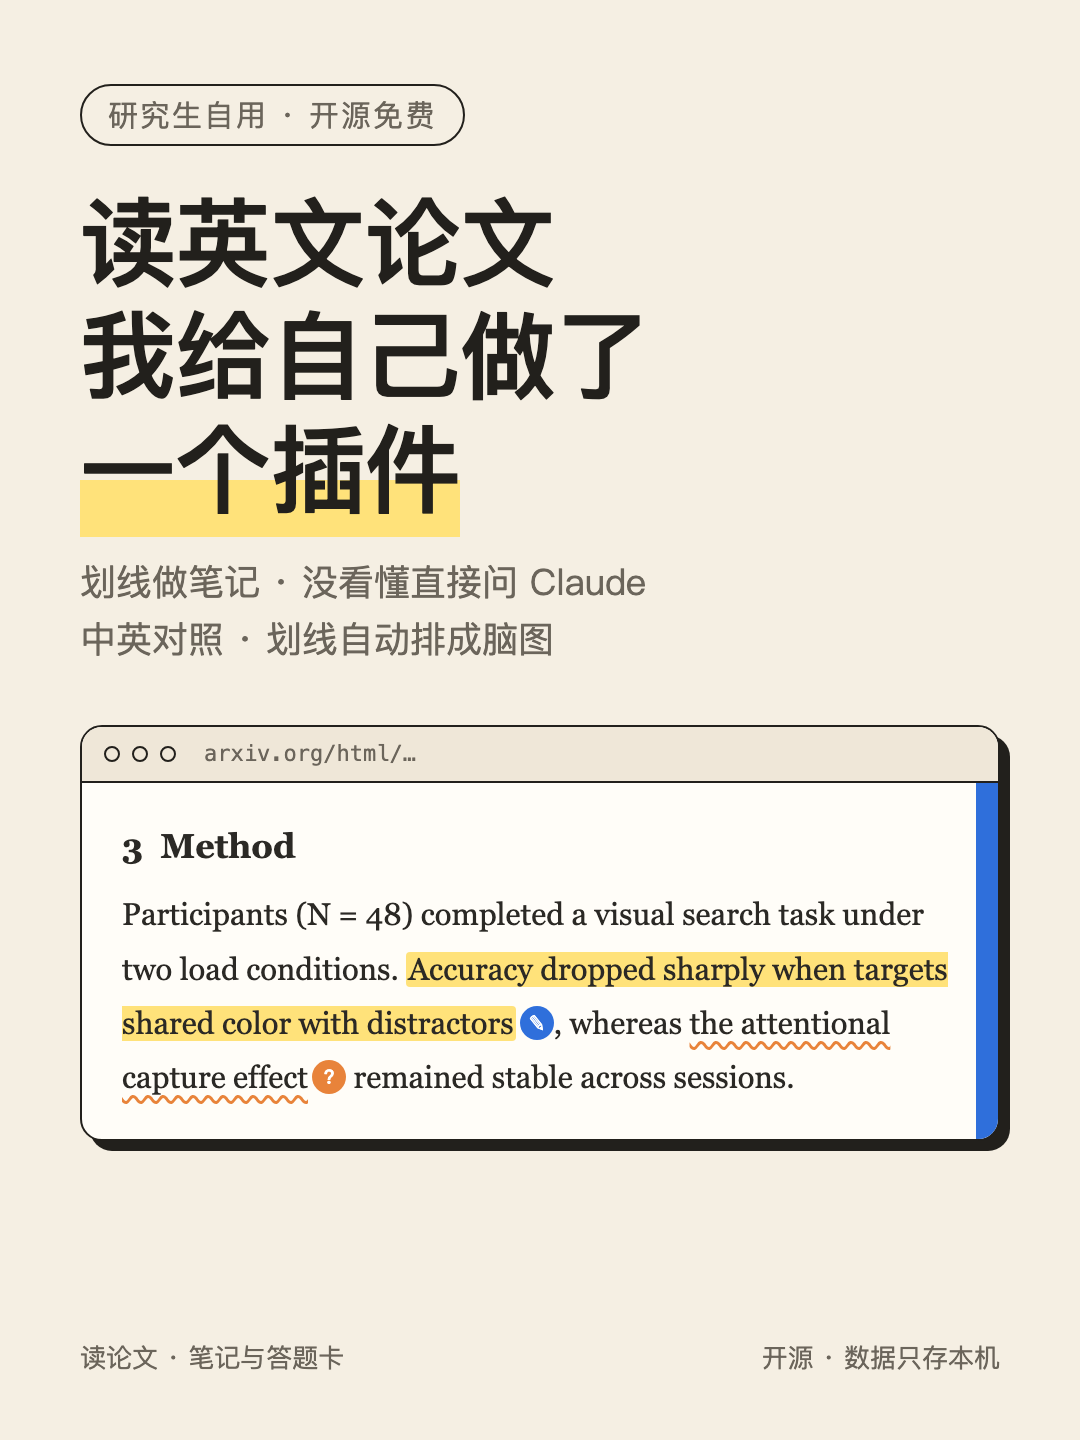
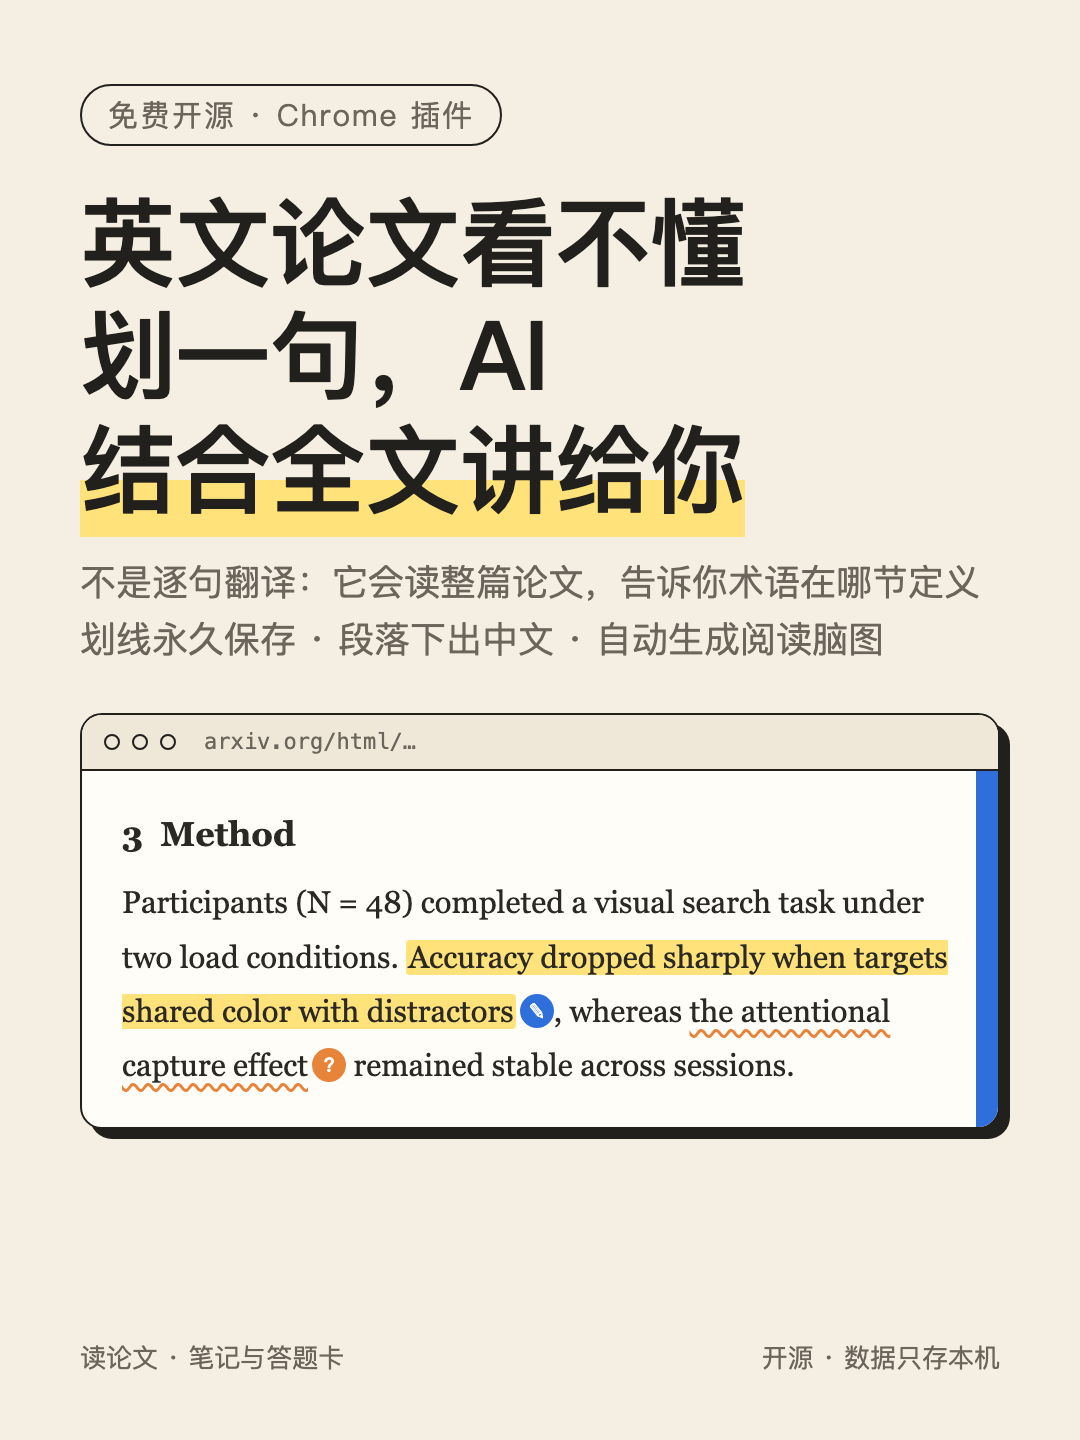
修复：关闭弹窗后的报错、登录过期提示、启动日志不显示；更新封面图

diff --git a/extension/content.js b/extension/content.js
@@ -775,7 +775,7 @@
     document.body.appendChild(pop);
     try { chrome.storage.local.get("rnPopSize").then(v => { const z = v.rnPopSize; if (z && pop === me) { pop.style.width = Math.min(z.w, innerWidth - 16) + "px"; pop.style.height = Math.min(z.h, innerHeight - 16) + "px"; pop.style.maxHeight = "none"; place(); } }); } catch (e) {}
     let szT = null;   // 右下角拉伸后记住大小
-    new ResizeObserver(() => { if (!pop.style.height && !pop.style.width) return; clearTimeout(szT); szT = setTimeout(() => { try { chrome.storage.local.set({ rnPopSize: { w: pop.offsetWidth, h: pop.offsetHeight } }); } catch (e) {} }, 400); }).observe(pop);
+    new ResizeObserver(() => { if (!me.isConnected || (!me.style.height && !me.style.width)) return; clearTimeout(szT); szT = setTimeout(() => { try { chrome.storage.local.set({ rnPopSize: { w: me.offsetWidth, h: me.offsetHeight } }); } catch (e) {} }, 400); }).observe(pop);
     ["l", "r", "b", "br", "bl"].forEach(k => { const h = document.createElement("div"); h.className = "rs rs-" + k; h.dataset.rs = k; pop.appendChild(h); });
     pop.addEventListener("pointerdown", ev => {   // 拖左 / 右 / 下边或角：改大小
       const h = ev.target.closest && ev.target.closest(".rs"); if (!h) return;

diff --git a/extension/sidepanel.js b/extension/sidepanel.js
@@ -70,7 +70,7 @@ function cites(t) {
 }
 let META = { items: {}, grades: {} };
 function noCardHtml(kind) {
-  return `<p class="tip">当前这篇（${esc(NOCARD)}）还没有目标卡。要读这篇的话，跟 Claude 说“给这篇出卡”。想看别的论文的卡，在上面“— 本页还没有卡 —”那个下拉框里选。</p>`;
+  return `<p class="tip">当前这篇（${esc(NOCARD)}）还没有目标卡。目标卡是可选功能，做法见 GitHub 上的 README。想看别的论文的卡，在上面“— 本页还没有卡 —”那个下拉框里选。</p>`;
 }
 async function loadCard() {
   if (NOCARD) { $("#modebar").innerHTML = ""; $("#v-method").innerHTML = ""; $("#body").innerHTML = noCardHtml("目标卡"); return; }

diff --git a/server/server.py b/server/server.py
@@ -296,6 +296,7 @@ def stream_with_fallback(J, cb, model, effort, sysp, prompt):
 
 def fail_msg(err, blob):
     if hit_limit(err + blob): return "Claude 额度用完了，稍后再试（用的是本机 Claude Code 登录的账号）。"
+    if _re.search(r"authenticat|oauth|not logged in|/login", err + blob, _re.I): return NO_LOGIN
     if err: return "Claude 出错：" + err
     if "SELF_SIGNED" in blob or "Unable to connect" in blob: return NO_NET
     if "Not logged in" in blob or "/login" in blob: return NO_LOGIN
@@ -943,5 +944,5 @@ class H(http.server.BaseHTTPRequestHandler):
 if __name__ == "__main__":
     print(f"读论文插件本机服务：http://127.0.0.1:{PORT}  数据文件夹：{DATA}")
     print("Claude Code：" + (claude_bin() or "没找到（“问 Claude”用不了，其余功能正常）"))
-    print("对照翻译：" + ("已配置" if os.environ.get("RN_TRANSLATE_API_BASE") and os.environ.get("RN_TRANSLATE_API_KEY") else "未配置（见 README）"))
+    print("对照翻译：" + ("已配置" if os.environ.get("RN_TRANSLATE_API_BASE") and os.environ.get("RN_TRANSLATE_API_KEY") else "未配置（见 README）"), flush=True)
     http.server.ThreadingHTTPServer(("127.0.0.1", PORT), H).serve_forever()

diff --git a/docs/xhs/make.py b/docs/xhs/make.py
@@ -38,10 +38,10 @@ h2{font-size:72px;line-height:1.2;font-weight:800;margin-top:28px}
 FOOT = '<div class="foot"><span>读论文 · 笔记与答题卡</span><span>开源 · 数据只存本机</span></div>'
 
 P1 = """
-<span class="tag">研究生自用 · 开源免费</span>
-<h1>读英文论文<br>我给自己做了<br><span class="mk">一个插件</span></h1>
-<p class="lead">划线做笔记 · 没看懂直接问 Claude<br>中英对照 · 划线自动排成脑图</p>
-<div class="win" style="margin-top:56px;position:relative">
+<span class="tag">免费开源 · Chrome 插件</span>
+<h1>英文论文看不懂<br>划一句，AI<br><span class="mk">结合全文讲给你</span></h1>
+<p class="lead">不是逐句翻译：它会读整篇论文，告诉你术语在哪节定义<br>划线永久保存 · 段落下出中文 · 自动生成阅读脑图</p>
+<div class="win" style="margin-top:44px;position:relative">
   <div class="bar"><i></i><i></i><i></i><span>arxiv.org/html/…</span></div>
   <div class="pp">
     <div class="sec">3 &nbsp;Method</div>
